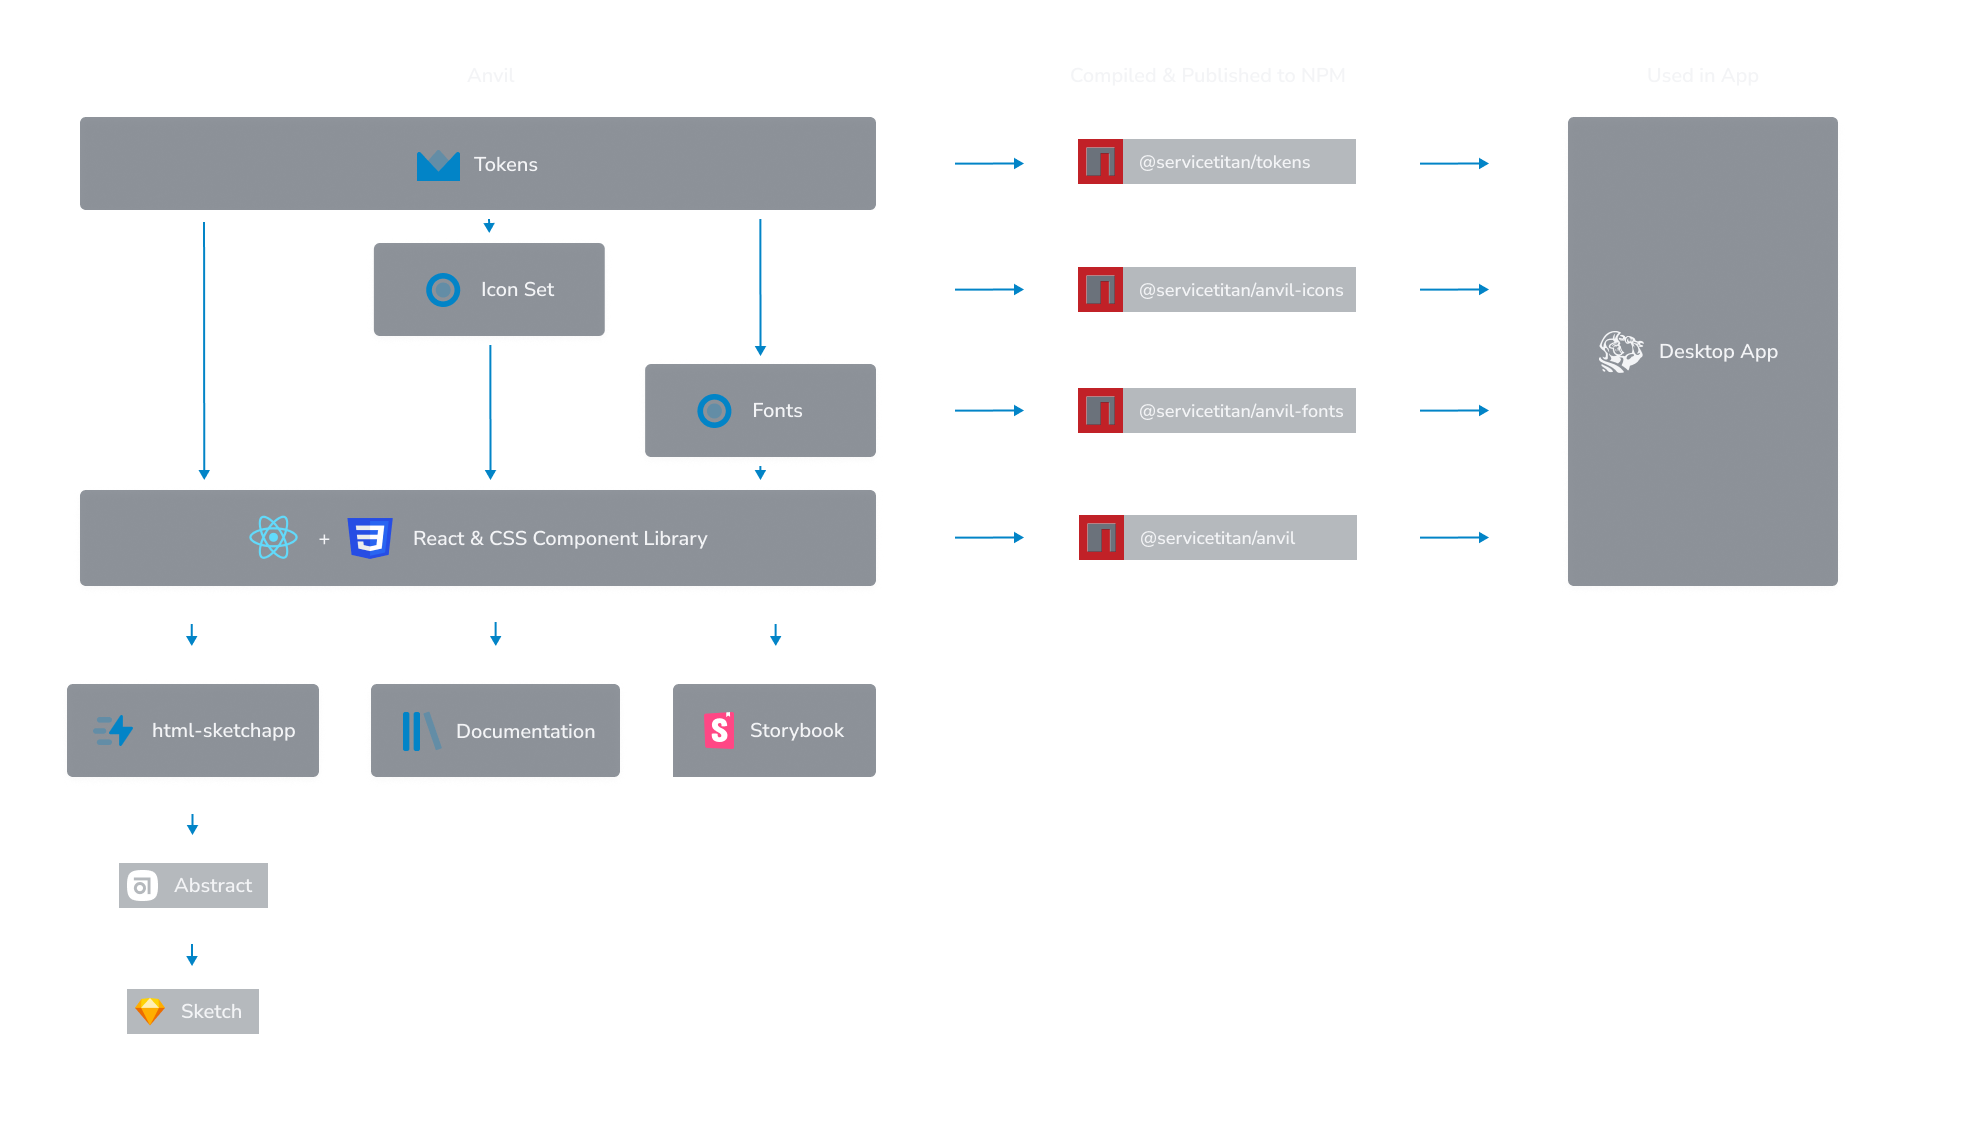
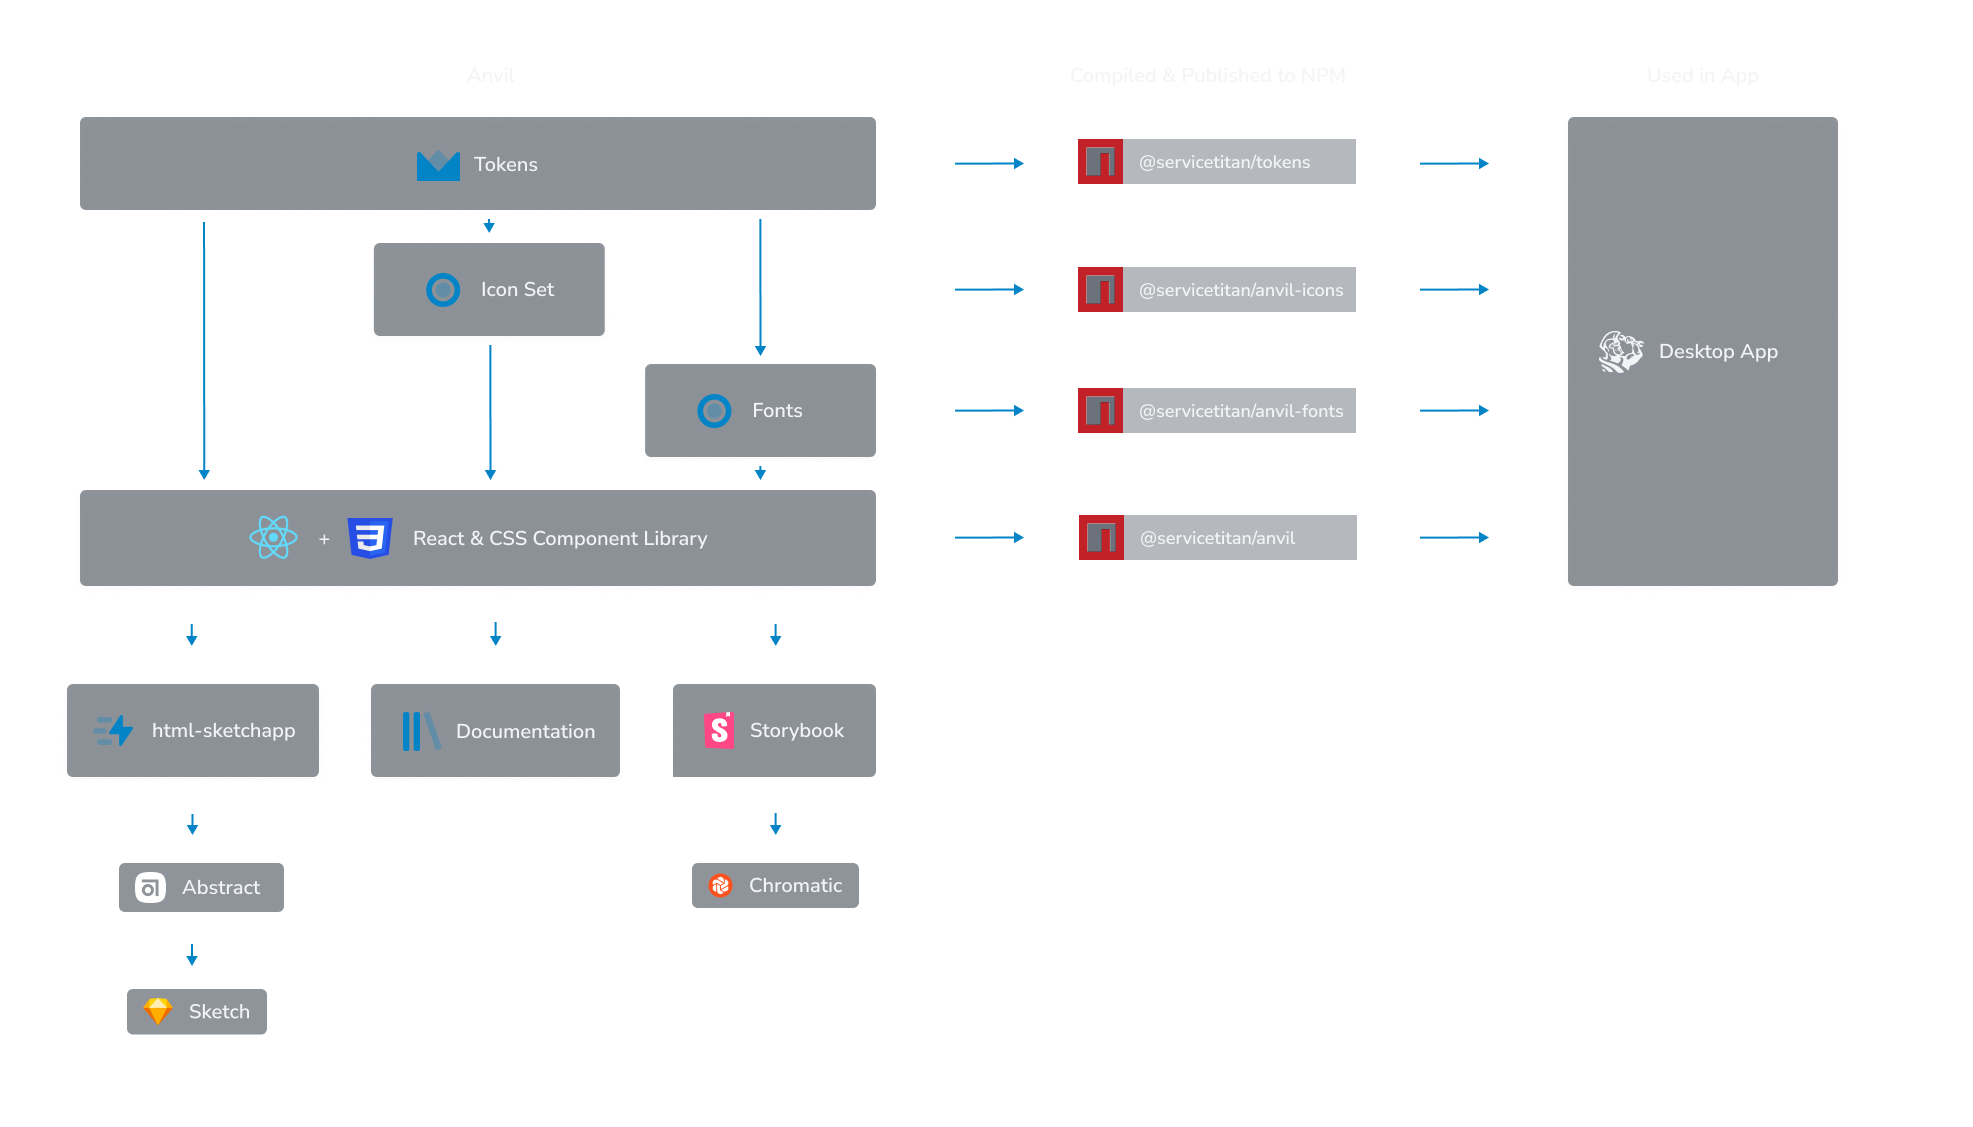
Update the code architecture diagram and retitle slide 2 to Overview
New diagram export adds Chromatic hanging off Storybook; alt text follows.

Overview replaces "By the numbers", which was trying too hard. The slide
carries metrics, the docs URL, and a screenshot of the docs site, so a
plain summary label covers all three and gets out of the way. File and
export renamed to match.

Changed region(s): [[0.3401, 0.7453, 0.4328, 0.8075], [0.0618, 0.8696, 0.1546, 0.9317], [0.0618, 0.7453, 0.1546, 0.8075]]

diff --git a/src/pages/decks/2026-anvil-15m/_slides/index.ts b/src/pages/decks/2026-anvil-15m/_slides/index.ts
@@ -1,5 +1,5 @@
 export { default as Title } from './1-Title.astro';
-export { default as ByTheNumbers } from './2-ByTheNumbers.astro';
+export { default as Overview } from './2-Overview.astro';
 export { default as CodeArchitecture } from './3-CodeArchitecture.astro';
 export { default as FigmaLibraries } from './4-FigmaLibraries.astro';
 export { default as Adoption } from './5-Adoption.astro';
